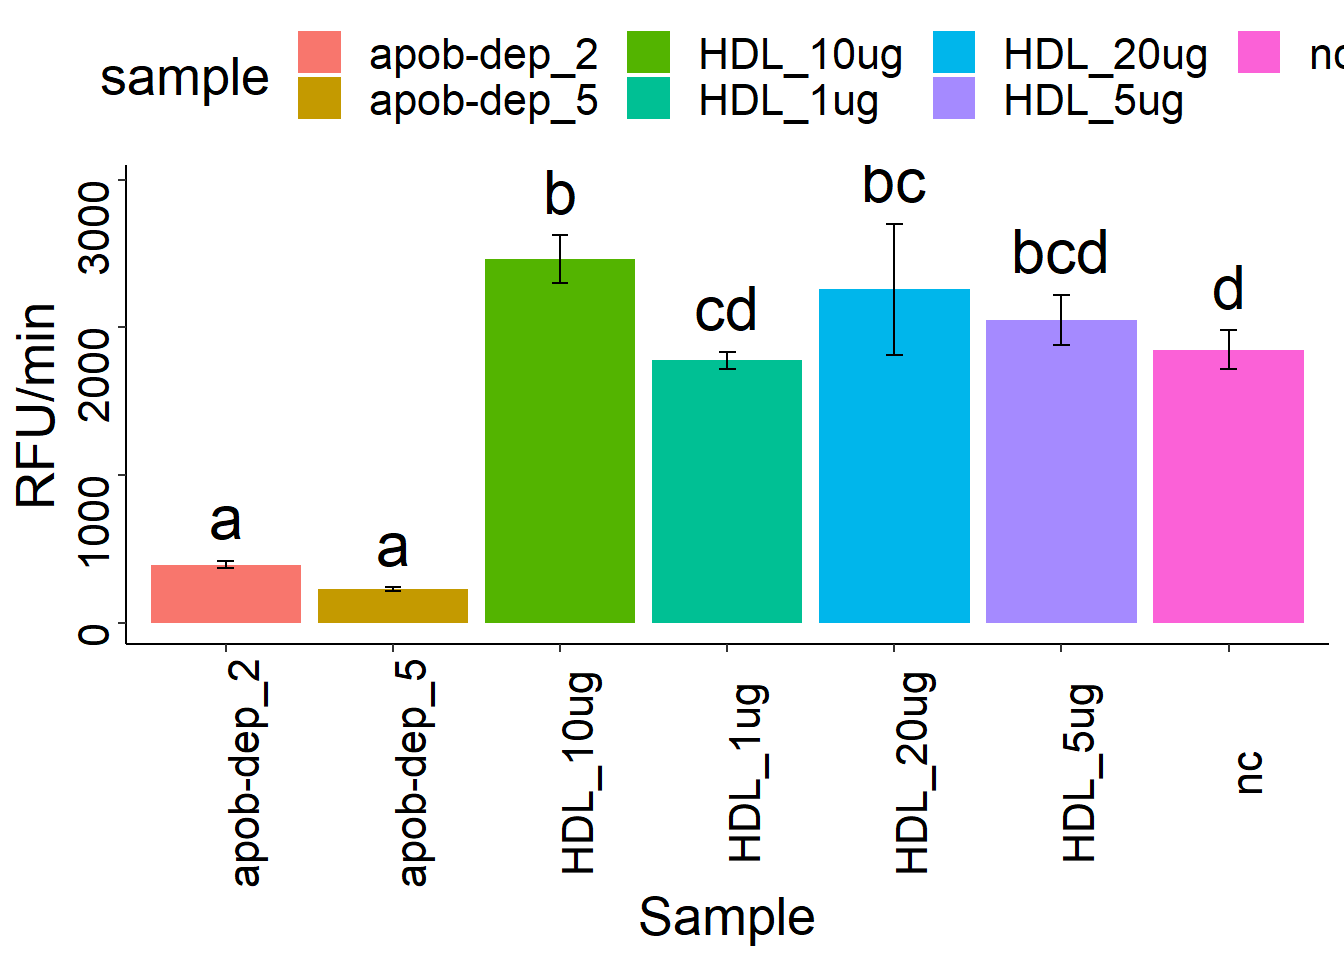
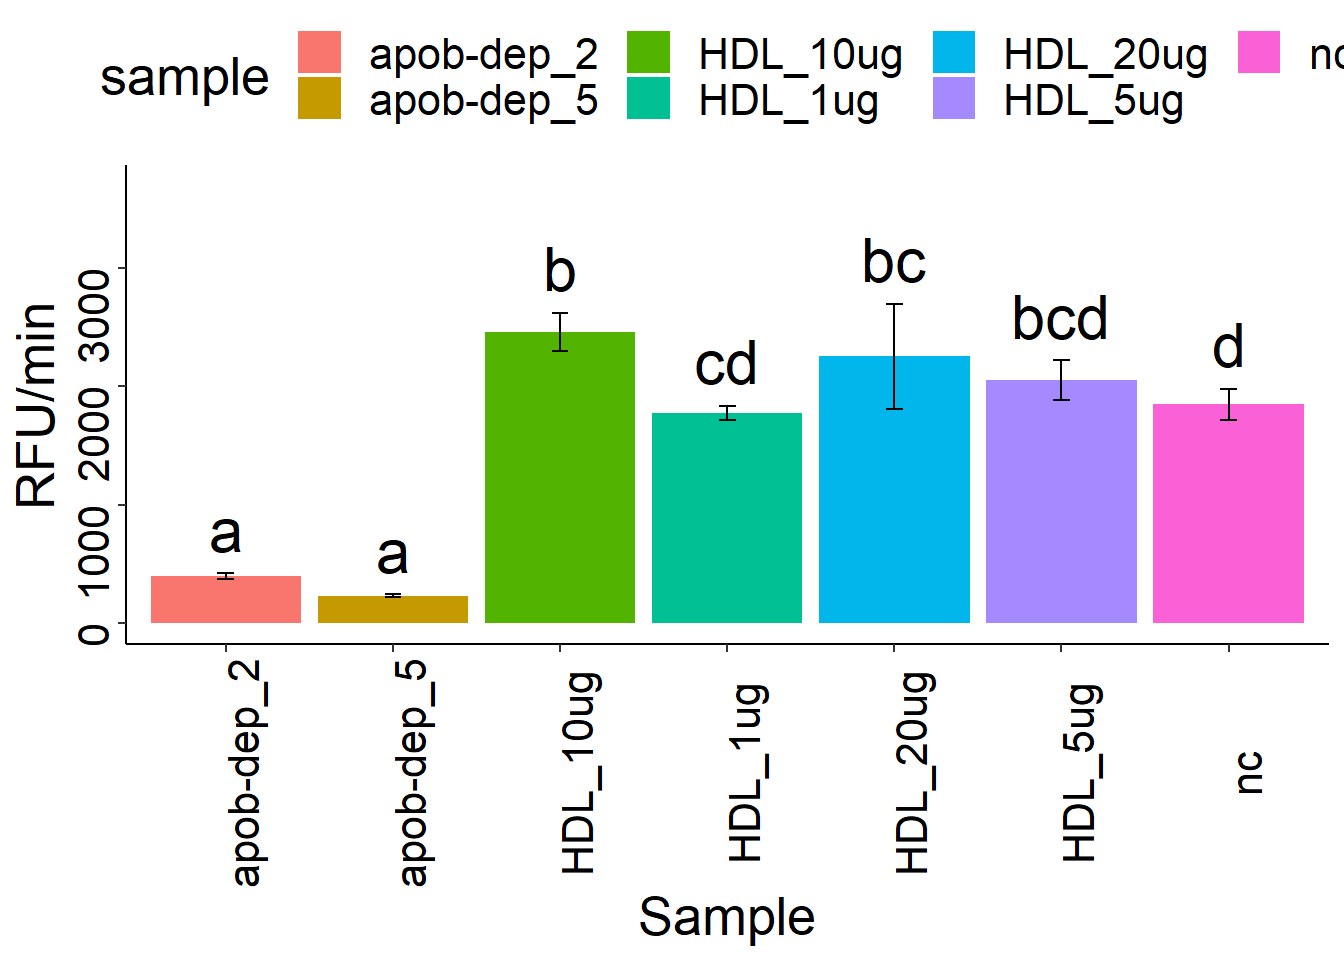
update Antioxidant Report Quarto, add sample label and expand figure size on report.

diff --git a/Antioxidant-capacity/report/2023-01-12/2023-01-12-antioxidant_optimize.html b/Antioxidant-capacity/report/2023-01-12/2023-01-12-antioxidant_optimize.html
@@ -120,6 +120,7 @@ code span.wa { color: #60a0b0; font-weight: bold; font-style: italic; } /* Warni
    
   <ul>
   <li><a href="#objective" id="toc-objective" class="nav-link active" data-scroll-target="#objective">Objective</a></li>
+  <li><a href="#sample-type" id="toc-sample-type" class="nav-link" data-scroll-target="#sample-type">Sample Type</a></li>
   <li><a href="#packages" id="toc-packages" class="nav-link" data-scroll-target="#packages">Packages</a></li>
   <li><a href="#read-files" id="toc-read-files" class="nav-link" data-scroll-target="#read-files">Read Files</a></li>
   <li><a href="#determine-where-slope-is-linear" id="toc-determine-where-slope-is-linear" class="nav-link" data-scroll-target="#determine-where-slope-is-linear">Determine where slope is linear</a>
@@ -165,6 +166,17 @@ code span.wa { color: #60a0b0; font-weight: bold; font-style: italic; } /* Warni
 <section id="objective" class="level2">
 <h2 class="anchored" data-anchor-id="objective">Objective</h2>
 <p>To determine whether the antioxidant capacity assay is compatible with our isolated HDL, HDL isolated by sequential flotation ultracentrifugation followed by SEC using our FPLC. This cell-free assay measure HDL function by its ability to inhibit oxidation of Dihydrorhodamine 123 (DHR) mediated by azobis.</p>
+</section>
+<section id="sample-type" class="level2">
+<h2 class="anchored" data-anchor-id="sample-type">Sample Type</h2>
+<ol type="1">
+<li><p>apob-dep_2 = 2% ApoB-depleted plasma</p></li>
+<li><p>apob-dep_5 = 5% ApoB-depleted plasma</p></li>
+<li><p>HDL_1ug - 1 ug of HDL in 175 uL total volume</p></li>
+<li><p>HDL_5ug - 5 ug of HDL in 175 uL total volume</p></li>
+<li><p>HDL_10ug - 10 ug of HDL in 175 uL total volume</p></li>
+<li><p>HDL_20ug - 20 ug of HDL in 175 uL total volume</p></li>
+</ol>
 </section>
 <section id="packages" class="level2">
 <h2 class="anchored" data-anchor-id="packages">Packages</h2>
@@ -270,8 +282,8 @@ code span.wa { color: #60a0b0; font-weight: bold; font-style: italic; } /* Warni
 </details>
 <div class="cell-output-display">
 
-<div id="htmlwidget-def604777cf0a136ccb3" style="width:100%;height:auto;" class="datatables html-widget"></div>
-<script type="application/json" data-for="htmlwidget-def604777cf0a136ccb3">{"x":{"filter":"none","vertical":false,"data":[["1","2","3","4","5","6","7","8","9","10","11","12","13","14","15","16","17","18","19","20","21","22","23","24","25","26","27"],["apob-dep_2","apob-dep_2","apob-dep_2","apob-dep_5","apob-dep_5","apob-dep_5","HDL_10ug","HDL_10ug","HDL_10ug","HDL_1ug","HDL_1ug","HDL_1ug","HDL_20ug","HDL_20ug","HDL_20ug","HDL_5ug","HDL_5ug","HDL_5ug","nc","nc","nc","nc","nc","nc","nc","nc","nc"],[421.210526315789,381.789473684211,376.052631578947,217.421052631579,223.526315789474,242.578947368421,2369.05263157895,2366.15789473684,2650.94736842105,1734.15789473684,1845.52631578947,1748.10526315789,2769.26315789474,2028.68421052632,1973.68421052632,2248.05263157895,1943.15789473684,1964.84210526316,2011.94736842105,1759.68421052632,1935.78947368421,1663.63157894737,1930.78947368421,1649.26315789474,1824.36842105263,1907.26315789474,1957.21052631579]],"container":"<table class=\"display\">\n  <thead>\n    <tr>\n      <th> <\/th>\n      <th>sample<\/th>\n      <th>slope<\/th>\n    <\/tr>\n  <\/thead>\n<\/table>","options":{"columnDefs":[{"className":"dt-right","targets":2},{"orderable":false,"targets":0}],"order":[],"autoWidth":false,"orderClasses":false}},"evals":[],"jsHooks":[]}</script>
+<div id="htmlwidget-72399e09774c63a269be" style="width:100%;height:auto;" class="datatables html-widget"></div>
+<script type="application/json" data-for="htmlwidget-72399e09774c63a269be">{"x":{"filter":"none","vertical":false,"data":[["1","2","3","4","5","6","7","8","9","10","11","12","13","14","15","16","17","18","19","20","21","22","23","24","25","26","27"],["apob-dep_2","apob-dep_2","apob-dep_2","apob-dep_5","apob-dep_5","apob-dep_5","HDL_10ug","HDL_10ug","HDL_10ug","HDL_1ug","HDL_1ug","HDL_1ug","HDL_20ug","HDL_20ug","HDL_20ug","HDL_5ug","HDL_5ug","HDL_5ug","nc","nc","nc","nc","nc","nc","nc","nc","nc"],[421.210526315789,381.789473684211,376.052631578947,217.421052631579,223.526315789474,242.578947368421,2369.05263157895,2366.15789473684,2650.94736842105,1734.15789473684,1845.52631578947,1748.10526315789,2769.26315789474,2028.68421052632,1973.68421052632,2248.05263157895,1943.15789473684,1964.84210526316,2011.94736842105,1759.68421052632,1935.78947368421,1663.63157894737,1930.78947368421,1649.26315789474,1824.36842105263,1907.26315789474,1957.21052631579]],"container":"<table class=\"display\">\n  <thead>\n    <tr>\n      <th> <\/th>\n      <th>sample<\/th>\n      <th>slope<\/th>\n    <\/tr>\n  <\/thead>\n<\/table>","options":{"columnDefs":[{"className":"dt-right","targets":2},{"orderable":false,"targets":0}],"order":[],"autoWidth":false,"orderClasses":false}},"evals":[],"jsHooks":[]}</script>
 </div>
 </div>
 </section>
@@ -340,7 +352,7 @@ because "tukey" is only appropriate for one set of pairwise comparisons</code></
 <span id="cb12-38"><a href="#cb12-38" aria-hidden="true" tabindex="-1"></a>        <span class="fu">theme</span>(<span class="at">axis.text =</span> <span class="fu">element_text</span>(<span class="at">angle =</span> <span class="dv">90</span>, <span class="at">color =</span> <span class="st">"black"</span>),</span>
 <span id="cb12-39"><a href="#cb12-39" aria-hidden="true" tabindex="-1"></a>              <span class="at">text =</span> <span class="fu">element_text</span>(<span class="at">size =</span> <span class="dv">20</span>),</span>
 <span id="cb12-40"><a href="#cb12-40" aria-hidden="true" tabindex="-1"></a>              <span class="at">legend.position =</span> <span class="st">"top"</span>) <span class="sc">+</span></span>
-<span id="cb12-41"><a href="#cb12-41" aria-hidden="true" tabindex="-1"></a>        <span class="fu">ylim</span>(<span class="dv">0</span>, <span class="fu">max</span>(gg_df<span class="sc">$</span>mean)<span class="sc">*</span><span class="fl">1.2</span>)</span></code><button title="Copy to Clipboard" class="code-copy-button"><i class="bi"></i></button></pre></div>
+<span id="cb12-41"><a href="#cb12-41" aria-hidden="true" tabindex="-1"></a>        <span class="fu">ylim</span>(<span class="dv">0</span>, <span class="fu">max</span>(gg_df<span class="sc">$</span>mean)<span class="sc">*</span><span class="fl">1.5</span>)</span></code><button title="Copy to Clipboard" class="code-copy-button"><i class="bi"></i></button></pre></div>
 </details>
 <div class="cell-output-display">
 <p><img src="2023-01-12-antioxidant_optimize_files/figure-html/unnamed-chunk-5-1.png" class="img-fluid" width="672"></p>
@@ -403,13 +415,13 @@ because "tukey" is only appropriate for one set of pairwise comparisons</code></
 </details>
 <div class="cell-output-display">
 
-<div id="htmlwidget-ec4727793b4834c2c195" style="width:100%;height:auto;" class="datatables html-widget"></div>
-<script type="application/json" data-for="htmlwidget-ec4727793b4834c2c195">{"x":{"filter":"none","vertical":false,"data":[["1","2","3","4","5","6","7"],["apob-dep_2","apob-dep_5","HDL_10ug","HDL_1ug","HDL_20ug","HDL_5ug","nc"],[69341,39263.3,447654.5,321267,461799.5,377580.17,331244.5],[895.9,4523.93,31589.03,14958.81,88944.88,32695.74,23333.78],[1.29,11.52,7.06,4.66,19.26,8.66,7.04]],"container":"<table class=\"display\">\n  <thead>\n    <tr>\n      <th> <\/th>\n      <th>sample<\/th>\n      <th>mean_iAUC<\/th>\n      <th>SD_iAUC<\/th>\n      <th>CV_iAUC<\/th>\n    <\/tr>\n  <\/thead>\n<\/table>","options":{"columnDefs":[{"className":"dt-right","targets":[2,3,4]},{"orderable":false,"targets":0}],"order":[],"autoWidth":false,"orderClasses":false}},"evals":[],"jsHooks":[]}</script>
+<div id="htmlwidget-9d7c75608ee40cabd6de" style="width:100%;height:auto;" class="datatables html-widget"></div>
+<script type="application/json" data-for="htmlwidget-9d7c75608ee40cabd6de">{"x":{"filter":"none","vertical":false,"data":[["1","2","3","4","5","6","7"],["apob-dep_2","apob-dep_5","HDL_10ug","HDL_1ug","HDL_20ug","HDL_5ug","nc"],[69341,39263.3,447654.5,321267,461799.5,377580.17,331244.5],[895.9,4523.93,31589.03,14958.81,88944.88,32695.74,23333.78],[1.29,11.52,7.06,4.66,19.26,8.66,7.04]],"container":"<table class=\"display\">\n  <thead>\n    <tr>\n      <th> <\/th>\n      <th>sample<\/th>\n      <th>mean_iAUC<\/th>\n      <th>SD_iAUC<\/th>\n      <th>CV_iAUC<\/th>\n    <\/tr>\n  <\/thead>\n<\/table>","options":{"columnDefs":[{"className":"dt-right","targets":[2,3,4]},{"orderable":false,"targets":0}],"order":[],"autoWidth":false,"orderClasses":false}},"evals":[],"jsHooks":[]}</script>
 </div>
 </div>
 <section id="incremental-auc-plot" class="level3">
 <h3 class="anchored" data-anchor-id="incremental-auc-plot">Incremental AUC Plot</h3>
-<div class="cell" data-fig.dim="c(6, 8)">
+<div class="cell" data-fig.dim="c(8, 8)">
 <details>
 <summary>Code</summary>
 <div class="sourceCode cell-code" id="cb14"><pre class="sourceCode r code-with-copy"><code class="sourceCode r"><span id="cb14-1"><a href="#cb14-1" aria-hidden="true" tabindex="-1"></a><span class="do">########## CLD stats for iAUC figure ###################</span></span>
@@ -472,7 +484,7 @@ because "tukey" is only appropriate for one set of pairwise comparisons</code></
 <span id="cb16-38"><a href="#cb16-38" aria-hidden="true" tabindex="-1"></a>        <span class="fu">theme</span>(<span class="at">axis.text =</span> <span class="fu">element_text</span>(<span class="at">angle =</span> <span class="dv">90</span>, <span class="at">color =</span> <span class="st">"black"</span>),</span>
 <span id="cb16-39"><a href="#cb16-39" aria-hidden="true" tabindex="-1"></a>              <span class="at">text =</span> <span class="fu">element_text</span>(<span class="at">size =</span> <span class="dv">20</span>),</span>
 <span id="cb16-40"><a href="#cb16-40" aria-hidden="true" tabindex="-1"></a>              <span class="at">legend.position =</span> <span class="st">"top"</span>) <span class="sc">+</span></span>
-<span id="cb16-41"><a href="#cb16-41" aria-hidden="true" tabindex="-1"></a>        <span class="fu">ylim</span>(<span class="dv">0</span>, <span class="fu">max</span>(gg_df<span class="sc">$</span>mean)<span class="sc">*</span><span class="fl">1.2</span>)</span></code><button title="Copy to Clipboard" class="code-copy-button"><i class="bi"></i></button></pre></div>
+<span id="cb16-41"><a href="#cb16-41" aria-hidden="true" tabindex="-1"></a>        <span class="fu">ylim</span>(<span class="dv">0</span>, <span class="fu">max</span>(gg_df<span class="sc">$</span>mean)<span class="sc">*</span><span class="fl">1.5</span>)</span></code><button title="Copy to Clipboard" class="code-copy-button"><i class="bi"></i></button></pre></div>
 </details>
 <div class="cell-output-display">
 <p><img src="2023-01-12-antioxidant_optimize_files/figure-html/unnamed-chunk-7-1.png" class="img-fluid" width="672"></p>
